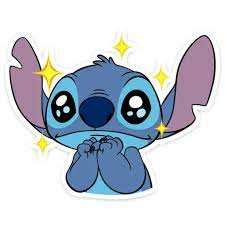
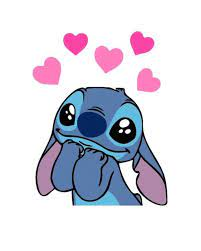
Add files via upload

diff --git a/main.py b/main.py
@@ -9,12 +9,32 @@ play.set_backdrop("light blue")
 
 @play.when_program_starts#Функція для початку програми 
 def start():
+    global player, speech
     text1 = play.new_text(words="г - гладити, з - зіграти, с - спати ", x=0, y=270, font_size=40)
     text2 = play.new_text(words="к - кормити, п- прибрати, пробіл - піти", x=0, y=240, font_size=40)
-    text3 = play.new_image(image="download (2).jpg" , x=0, y=0, size=100)
+    player = play.new_image(image="download (2).jpg", x=0, y=0, size=100)
+    speech = play.new_text(words="привіт стіч ", x=0, y=-250 )
 @play.repeat_forever#повторення завжди(ігровий цикл)
-def do():
-    pass
+async def do():
+    if play.key_is_pressed("г") or play.key_is_pressed("г"):
+        player.image = "download.jpg"
+        speech.words = "хазяяєн погладь мене "
+        await play.timer(2.0)
+        player.image = "d7cd5f42-a37e565c7344e21d614a7c7e06b8ba32.jpg"
+        speech.words = "ладно давай "
+        await play.timer(2.0)
+        player.image = "download.jpg"
+        speech.words = "ой як преємно "
+    if play.key_is_pressed("г") or play.key_is_pressed("з"):
+        player.image = "download.png"
+        speech.words = "ладно я дрихнути  пішов "
+        await play.timer(2.0)
+
+    if play.key_is_pressed("г") or play.key_is_pressed("с"):  
+        player.image = "download (4).jpg"
+        speech.words = "Goodbye"
+        speech.words = "I will think"
+        await play.timer(2.0)
 
 
 play.start_program()#запуск програми
